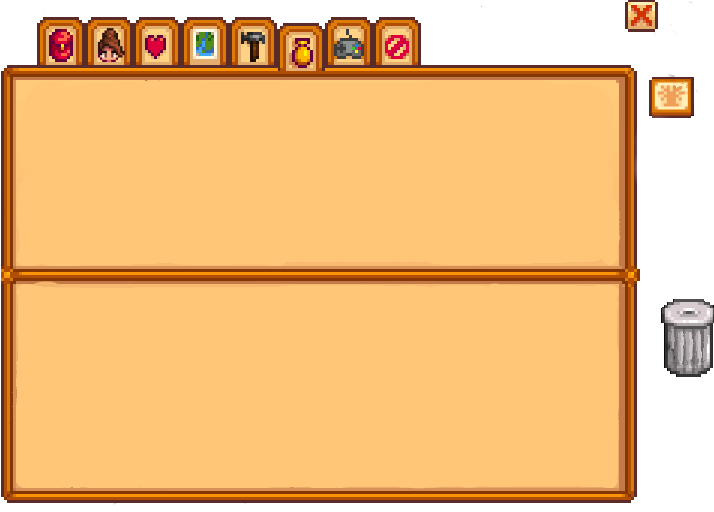
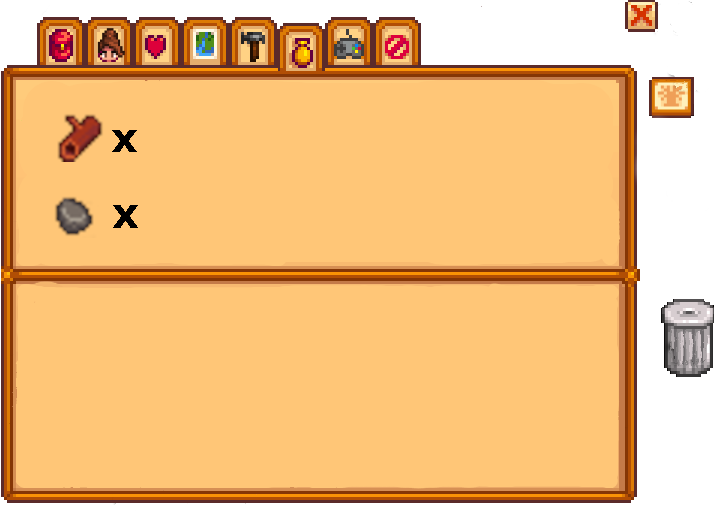
[V6.6] [ADD] + Quest list

Changed region(s): [[0.0616, 0.375, 0.1849, 0.4688], [0.0616, 0.2188, 0.1849, 0.3125]]

diff --git a/src/quests/quests_pnj.c b/src/quests/quests_pnj.c
@@ -1,0 +1,88 @@
+/*
+** EPITECH PROJECT, 2022
+** B-MUL-200-LYN-2-1-myrpg-nathan.donat-filliod
+** File description:
+** detect_fight
+*/
+
+#include "../../includes/rpg.h"
+
+void quests_abigail2(quests_ *quest, game_ *game)
+{
+    if (quest->step == 3) {
+        game->dialogues->quest = "#tuto_monster";
+        if (quest->read == 1)
+            add_items(game, game->first_item, 0);
+        launch_quest(quest, game, 1);
+        if (game->player->kills >= 5)
+            change_step(quest);
+    } if (quest->step == 4) {
+        game->dialogues->quest = "#tuto_end";
+        launch_quest(quest, game, 2);
+    }
+}
+
+void quests_abigail(quests_ *quest, game_ *game)
+{
+    if (quest->step == 1) {
+        game->dialogues->quest = "#tuto_wood";
+        if (quest->read == 1)
+            add_items(game, game->first_item, 161);
+        launch_quest(quest, game, 1);
+        if (game->player->log >= 5)
+            change_step(quest);
+    } if (quest->step == 2) {
+        game->dialogues->quest = "#tuto_ore";
+        if (quest->read == 1)
+            add_items(game, game->first_item, 145);
+        launch_quest(quest, game, 1);
+        if (game->player->rock >= 5)
+            change_step(quest);
+    }
+    quests_abigail2(quest, game);
+}
+
+void quests_alex(quests_ *quest, game_ *game)
+{
+    if (quest->step == 1 && check_state_quests(game->quests, 10, 1) == 0) {
+        game->dialogues->quest = "#intro";
+        launch_quest(quest, game, 1);
+        if (game->player->kills >= 10)
+            change_step(quest);
+    } if (quest->step == 2) {
+        game->dialogues->quest = "#go_wood";
+        launch_quest(quest, game, 1);
+    } if (quest->step == 2 && check_state_quests(game->quests, 11, 1) == 0) {
+        game->dialogues->quest = "#go_ore";
+        launch_quest(quest, game, 1);
+    } if (quest->step == 3 && check_state_quests(game->quests, 15, 1) == 0) {
+        game->dialogues->quest = "#alex_end";
+        launch_quest(quest, game, 2);
+    }
+}
+
+void quests_levis(quests_ *quest, game_ *game)
+{
+    if (quest->step == 1 && check_step_quests(game->quests, 9, 1, 2) == 0) {
+        game->dialogues->quest = "#lewis_help";
+        launch_quest(quest, game, 1);
+        if (game->player->log >= 20)
+            change_step(quest);
+    } if (quest->step == 2) {
+        game->dialogues->quest = "#lewis_end";
+        launch_quest(quest, game, 2);
+    }
+}
+
+void quests_clint(quests_ *quest, game_ *game)
+{
+    if (quest->step == 1 && check_step_quests(game->quests, 9, 1, 3) == 0) {
+        game->dialogues->quest = "#clint_help";
+        launch_quest(quest, game, 1);
+        if (game->player->rock >= 20)
+            change_step(quest);
+    } if (quest->step == 2) {
+        game->dialogues->quest = "#clint_end";
+        launch_quest(quest, game, 2);
+    }
+}

diff --git a/src/quests/create_quest.c b/src/quests/create_quest.c
@@ -16,7 +16,8 @@ quests_ *set_quest(game_ *game, char **array, int nb)
     new->state = 0;
     new->name = array[1 + 5 * nb];
     new->description = array[2 + 5 * nb];
-    new->stape = 1;
+    new->step = 1;
+    new->read = 1;
     new->loot = array[3 + 5 * nb];
     new->quest = create_text(my_strncat(array[1 + 5 * nb], array[2 + 5 * nb],
     0), (sfVector2f){1, 1}, (sfVector2f){game->quests->back->position.x + 60,
@@ -48,27 +49,36 @@ void create_quests(game_ *game)
 {
     int fd = open("quest.txt", O_RDONLY);
     char **quests = read_quests(game, fd, "quest.txt");
-
     game->quests = malloc(sizeof(quests_));
     game->quests->description = quests[2];
     game->quests->name = quests[1];
     game->quests->id_mob = my_atoi(quests[0]);
-    game->quests->stape = 1;
-    game->quests->state = 1;
+    game->quests->step = 1;
+    game->quests->array = quests;
+    game->quests->state = 0;
     game->quests->loot = quests[3];
     game->quests->next = NULL;
+    game->quests->read = 1;
     game->boole->on_quests = 1;
     game->quests->back = create_button((sfVector2f){1505, 300},
     (sfVector2f){3, 3}, "pictures/menu/book.png");
     game->quests->quest = create_text(my_strncat(quests[1], quests[2], 0),
     (sfVector2f){1, 1}, (sfVector2f){game->quests->back->position.x + 60,
     game->quests->back->position.y + 60}, "font/Stardew_Valley.ttf");
-    for (int nb = 1; nb < 4; nb += 1)
+    for (int nb = 1; nb < 8; nb += 1)
         get_last_quest(game, game->quests, quests, nb);
 }
 
 void draw_quests(game_ *game, quests_ *quest)
 {
+    int cmpt;
+
+    for (cmpt = 0; my_strcmp(game->quests->array[cmpt],
+    my_strcat(new_put_nbr(quest->id_mob), "\n")) != 0 &&
+    game->quests->array[cmpt]; cmpt += 1);
+    cmpt += 5 * (quest->step - 1);
+    sfText_setString(quest->quest->text,
+    my_strcat(game->quests->array[cmpt + 1], game->quests->array[cmpt + 2]));
     if (quest->state == 1)
         sfRenderWindow_drawText(game->window, quest->quest->text, sfFalse);
     if (quest->next != NULL)

diff --git a/src/gestion/params_gestion.c b/src/gestion/params_gestion.c
@@ -7,6 +7,20 @@
 
 #include "../../includes/rpg.h"
 
+void display_command(void)
+{
+    my_printf("-h : Display the menu \"Help\" (if you read that, you know how \
+to do this ^^)\n");
+    my_printf("-p <username> : Launch the game with your pseudo\n");
+    my_printf("    Use the pseudo \"Jessica\" to have a bonus\n\n");
+    my_printf("=> How to play ingame ?\n\n");
+    my_printf("Movements : ZQSD (Top, Left, Bottom, Right)\n");
+    my_printf("Escape : Open/Close pause menu\n");
+    my_printf("I : Open/Close Inventory\nM : Open/Close Map\n");
+    my_printf("P : Show/Hidden collisions\nC : Open/Close quests menu\n");
+    my_printf("E : Interact with PNJ\n\n");
+}
+
 void display_help(void)
 {
     my_printf("########## WELCOME IN OUR RPG ##########\n\n");
@@ -15,14 +29,7 @@ void display_help(void)
 find a way to survive and get out of here.\nBut you notice while exploring \
 the island that it is not that deserted...\n\n");
     my_printf("=> How to launch game ?\n\n");
-    my_printf("-h : Display the menu \"Help\" (if you read that, you know how \
-to do this ^^)\n");
-    my_printf("-p <username> : Launch the game with your pseudo\n");
-    my_printf("    Use the pseudo \"Jessica\" to have a bonus\n\n");
-    my_printf("=> How to play ingame ?\n\n");
-    my_printf("Movements : ZQSD (Top, Left, Bottom, Right)\n");
-    my_printf("Escape : Open/Close pause menu\n");
-    my_printf("I : Open/Close Inventory\nM : Open/Close Map\n\n");
+    display_command();
     my_printf("Good luck pirate !\n\n");
     my_printf("  ______________________________________\n");
     my_printf(" /                                      \\\n");

diff --git a/src/quests/check_quests.c b/src/quests/check_quests.c
@@ -1,0 +1,49 @@
+/*
+** EPITECH PROJECT, 2022
+** B-MUL-200-LYN-2-1-myrpg-nathan.donat-filliod
+** File description:
+** detect_fight
+*/
+
+#include "../../includes/rpg.h"
+
+void update_materials(game_ *game)
+{
+    sfText_setString(game->player->nb_log->text,
+    new_put_nbr(game->player->log));
+    sfText_setString(game->player->nb_rock->text,
+    new_put_nbr(game->player->rock));
+    sfRenderWindow_drawText(game->window, game->player->nb_log->text, sfFalse);
+    sfRenderWindow_drawText
+    (game->window, game->player->nb_rock->text, sfFalse);
+}
+
+int check_step_quests(quests_ *quest, int id, int is_done, int step)
+{
+    if (quest->id_mob == id && quest->step == step)
+        is_done = 0;
+    if (quest->next)
+        is_done = check_step_quests(quest->next, id, is_done, step);
+    return (is_done);
+}
+
+int check_state_quests(quests_ *quest, int id, int is_done)
+{
+    if (quest->id_mob == id && quest->state == 2)
+        is_done = 0;
+    if (quest->next)
+        is_done = check_state_quests(quest->next, id, is_done);
+    return (is_done);
+}
+
+void launch_quest(quests_ *quest, game_ *game, int action)
+{
+    quest->read = 0;
+    quest->state = action;
+}
+
+void change_step(quests_ *quest)
+{
+    quest->step += 1;
+    quest->read = 1;
+}

diff --git a/includes/rpg.h b/includes/rpg.h
@@ -201,6 +201,8 @@ typedef struct layer {
 typedef struct player {
     int log;
     int rock;
+    text_ *nb_log;
+    text_ *nb_rock;
     sfSprite *sprite;
     sfTexture *texture;
     sfVector2f position;
@@ -223,6 +225,7 @@ typedef struct player {
     int y_start;
     int x_start;
     sfVector2f pos_r;
+    int kills;
 } player_;
 
 typedef struct sounds {
@@ -424,11 +427,13 @@ typedef struct quests {
     int state;
     char *name;
     char *description;
-    int stape;
+    int step;
+    int read;
     struct quests *next;
     char *loot;
     text_ *quest;
     button_ *back;
+    char **array;
 } quests_;
 
 typedef struct dialogues {
@@ -590,5 +595,10 @@ void quests_abigail(quests_ *quest, game_ *game);
 void quests_alex(quests_ *quest, game_ *game);
 void quests_levis(quests_ *quest, game_ *game);
 void quests_clint(quests_ *quest, game_ *game);
+void update_materials(game_ *game);
+void launch_quest(quests_ *quest, game_ *game, int action);
+void change_step(quests_ *quest);
+int check_state_quests(quests_ *quest, int id, int is_done);
+int check_step_quests(quests_ *quest, int id, int is_done, int step);
 
 #endif /* PROJECT_H_ */

diff --git a/src/quests/quest_menu.c b/src/quests/quest_menu.c
@@ -18,6 +18,7 @@ void update_quests(game_ *game)
 
 void check_quest(game_ *game, int id, quests_ *quest)
 {
+    game->dialogues->quest = "#not_now";
     if (quest->id_mob == 10)
         quests_abigail(quest, game);
     if (quest->id_mob == 9)
@@ -26,12 +27,12 @@ void check_quest(game_ *game, int id, quests_ *quest)
         quests_levis(quest, game);
     if (quest->id_mob == 15)
         quests_clint(quest, game);
+    game->dialogues->pnj = quest->id_mob - 8;
 }
 
 void active_quest(game_ *game, int id, quests_ *quest)
 {
     if (quest->id_mob == id) {
-        quest->state = 1;
         check_quest(game, id, quest);
         game->boole->on_dialogue = 0;
         game->dialogues->line = 0;

diff --git a/src/game/items.c b/src/game/items.c
@@ -81,12 +81,12 @@ void add_items(game_ *game, item_ *item, int top)
     if (item == NULL) {
         game->first_item = create_item(1, 3, "pictures/items/weapons.png",
         (sfVector2f){960, 580});
-        set_rect_item(game->first_item, top, 0, NULL);
+        set_rect_item(game->first_item, top, 96, NULL);
     } else if (item->next != NULL)
         add_items(game, item->next, top);
     else {
         item->next = create_item(1, 3, "pictures/items/weapons.png",
-        (sfVector2f){game->player->position.x, game->player->position.y + 30});
+        (sfVector2f){game->player->position.x, game->player->position.y + 50});
         set_rect_item(item->next, top, 0, item);
     }
 }

diff --git a/src/game/fight.c b/src/game/fight.c
@@ -62,19 +62,3 @@ void update_fight(game_ *game)
         update_enemy_f(game->fight->enemy, game);
     }
 }
-
-void open_close_fight(game_ *game)
-{
-    if (game->boole->on_fight == 1 && sfKeyboard_isKeyPressed(sfKeyF) &&
-    game->clock->check_secs != 0) {
-        game->clock->check_secs = 0;
-        game->boole->on_fight = 0;
-        game->boole->on_inv = 1;
-        game->boole->on_best = 1;
-    } if (game->boole->on_fight == 0 && game->clock->check_secs != 0 &&
-    (sfKeyboard_isKeyPressed(sfKeyF) || sfKeyboard_isKeyPressed(sfKeyEscape))
-    && game->clock->check_secs != 0) {
-        game->clock->check_secs = 0;
-        game->boole->on_fight = 1;
-    }
-}

diff --git a/lib/my_strncpy.c b/lib/my_strncpy.c
@@ -10,7 +10,9 @@
 char *my_strcpy(char *dest, char *src)
 {
     int cmpt = 0;
+    dest = malloc(sizeof(char) * (my_strlen(src) + 1));
 
+    dest[my_strlen(src)] = '\0';
     while (src[cmpt] != '\0') {
         dest[cmpt] = src[cmpt];
         cmpt += 1;
@@ -32,10 +34,10 @@ char *my_strncpy(char *dest, char *src, int n)
         for (cmpt = 0; cmpt < n; cmpt += 1) {
             dest[cmpt] = src[cmpt];
         }
-    }
-    while (cmpt < my_strlen(dest)) {
-        dest[cmpt] = '\0';
-        cmpt += 1;
+        while (cmpt < my_strlen(dest)) {
+            dest[cmpt] = '\0';
+            cmpt += 1;
+        }
     }
     return (dest);
 }

diff --git a/src/generator/detect_fight.c b/src/generator/detect_fight.c
@@ -11,14 +11,12 @@ int detect_item(game_ *game, int x, int y, sfVector2f pos_)
 {
     if (my_atoi(game->layer_->id_mob[y][x]) == 100) {
         game->player->log += 1;
-        my_put_nbr(game->player->log);
         destroy_mob(pos_.y / 40, pos_.x / 40, game->first);
         game->layer_->id_mob[y][x][0] = '0';
         return (1);
     }
     if (my_atoi(game->layer_->id_mob[y][x]) == 200) {
         game->player->rock += 1;
-        my_put_nbr(game->player->rock);
         destroy_mob(pos_.y / 40, pos_.x / 40, game->first);
         game->layer_->id_mob[y][x][0] = '0';
         return (1);

diff --git a/src/game/update.c b/src/game/update.c
@@ -19,10 +19,10 @@ void update_inv(game_ *game)
         sfFalse);
         sfRenderWindow_drawText(game->window, game->inv->text_quit->text,
         sfFalse);
-    } if (game->boole->on_inv == 0) {
-        draw_items(game, game->first_item, game->player->movement, 0);
     } if (game->boole->on_tree == 0)
         loop_tree(game);
+    if (game->boole->on_potion == 0)
+        update_materials(game);
     event_pause(game);
     update_time(game);
     draw_hearth(game, game->inv->life, game->player->stats->life);

diff --git a/src/game/player.c b/src/game/player.c
@@ -54,6 +54,11 @@ void set_gold_player(game_ *game, char *pseudo)
     game->player->m_up = 1;
     game->player->m_left = 1;
     game->player->m_right = 1;
+    game->player->kills = 0;
+    game->player->nb_log = create_text("0", (sfVector2f){900, 300},
+    (sfVector2f){2, 2}, "font/Stardew_Valley.ttf");
+    game->player->nb_rock = create_text("0", (sfVector2f){900, 400},
+    (sfVector2f){2, 2}, "font/Stardew_Valley.ttf");
 }
 
 void create_player(game_ *game, char *pseudo)
